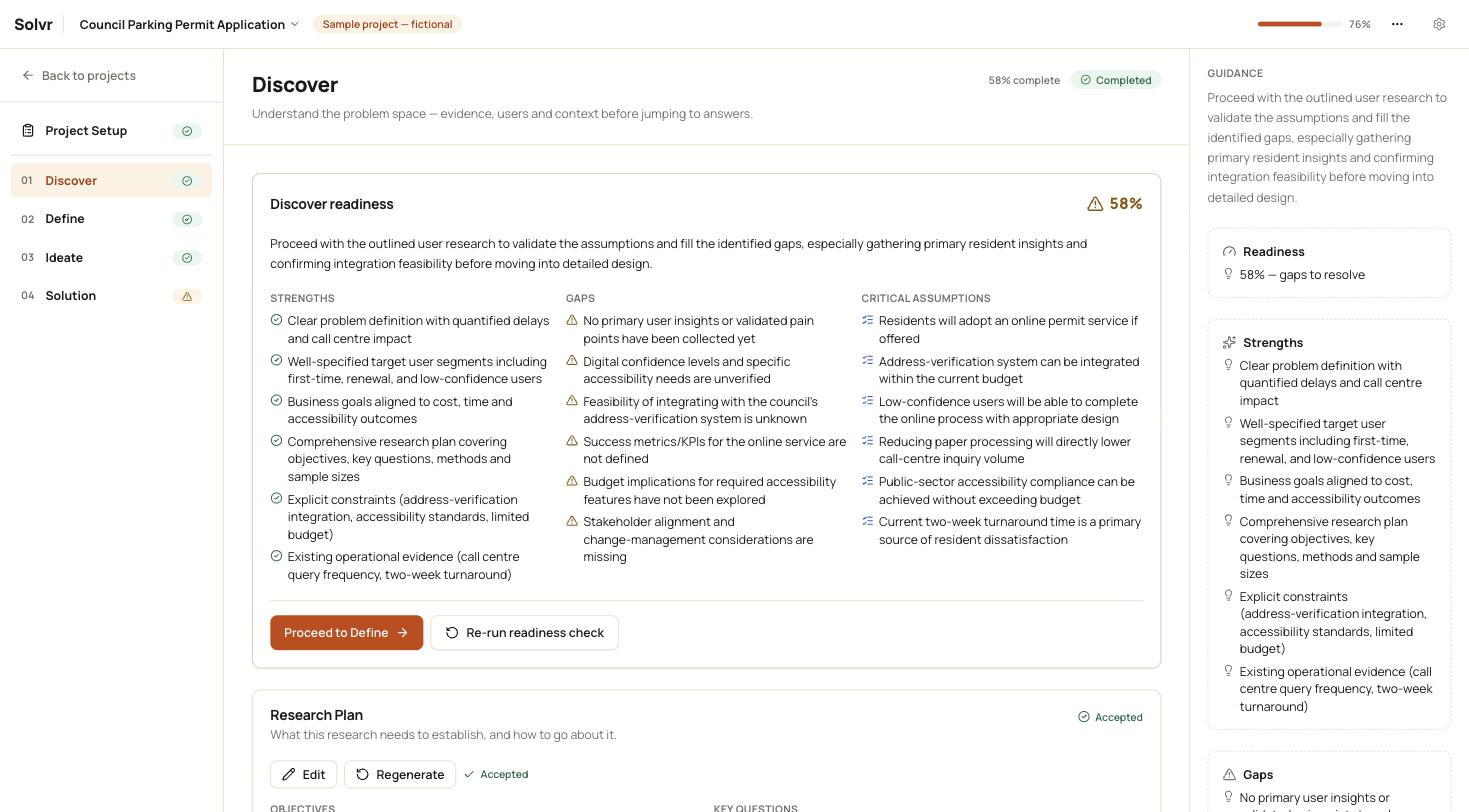
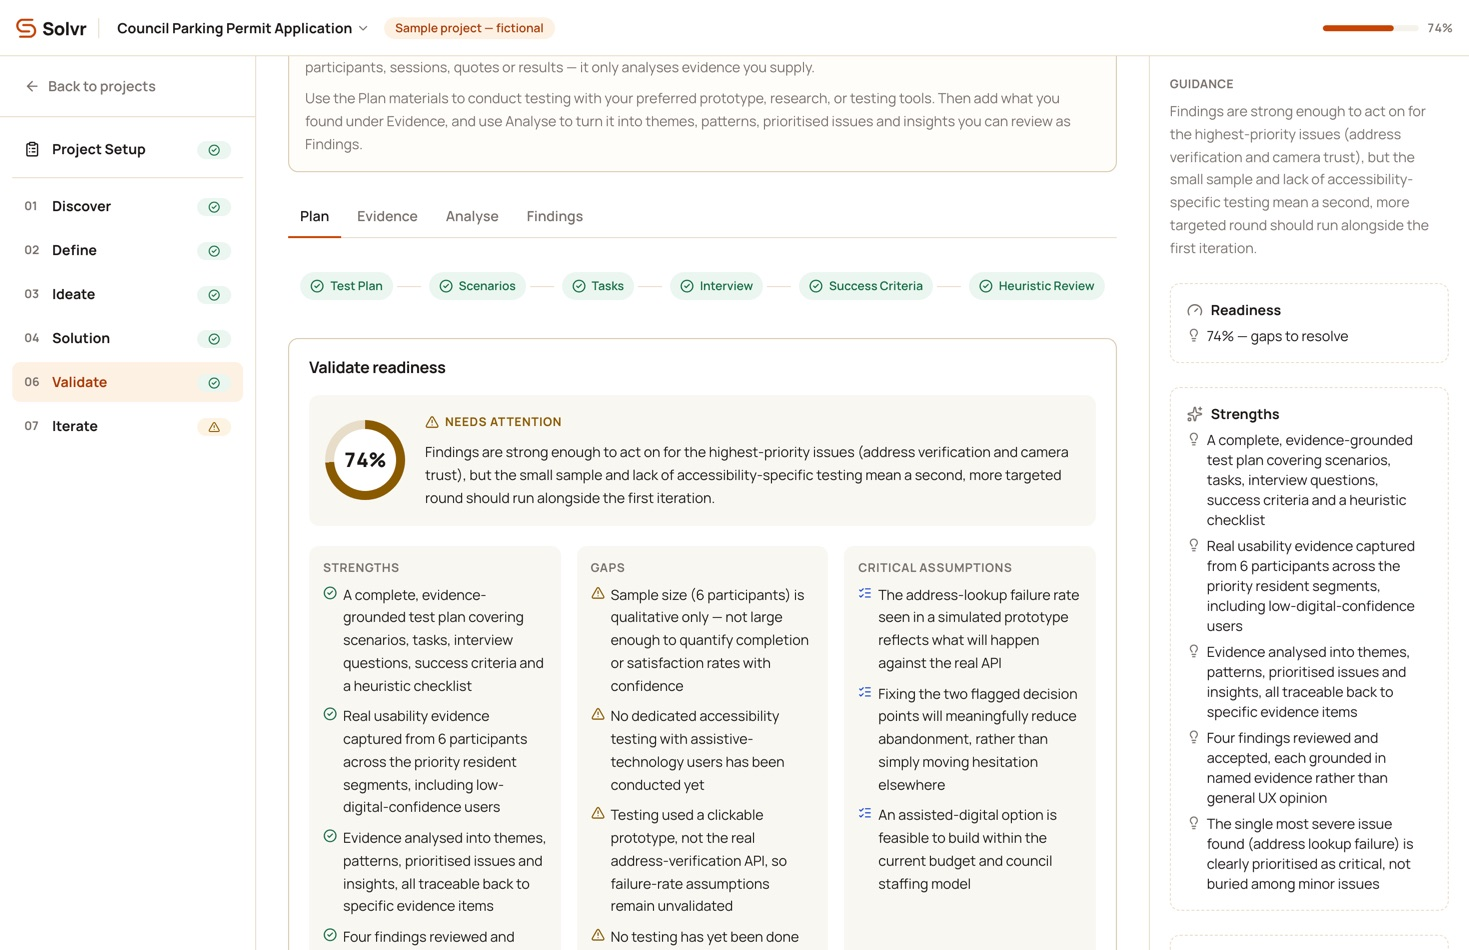
Update the marketing page for Validate/Iterate and fix the laptop mockup
The landing page still described a five-stage process (through Solution)
and used a screenshot from before the stage-page redesign. Update the
process section, hero copy, FAQ and About dialog to cover all seven
stages including Validate and Iterate, and refresh the hero screenshot
to the current UI.

Also rework the laptop mockup's base: it was a thin sliver barely wider
than the screen, which read as an iPad's bottom bezel rather than a
laptop. Flare the keyboard deck noticeably wider, add a hinge seam and a
front latch notch so it reads as an open laptop.

Claude-Session: https://claude.ai/code/session_01LFLF7B8LEyAFCLva1mCGFB

diff --git a/src/components/marketing/footer-legal.tsx b/src/components/marketing/footer-legal.tsx
@@ -59,9 +59,9 @@ export function AboutDialog() {
       <div className="flex flex-col gap-3">
         <H>What it is</H>
         <p>
-          Solvr is a free, AI-guided Product/UX design workspace. It walks a rough product problem through five
-          stages — Project Setup, Discover, Define, Ideate and Solution — asking the questions a design process
-          normally asks, and using AI to help draft, critique and score readiness at every step.
+          Solvr is a free, AI-guided Product/UX design workspace. It walks a rough product problem through seven
+          stages — Project Setup, Discover, Define, Ideate, Solution, Validate and Iterate — asking the questions a
+          design process normally asks, and using AI to help draft, critique and score readiness at every step.
         </p>
         <p>
           It replaces a blank document with guided deliverables — research plans, personas, journey maps, concepts,
@@ -111,7 +111,7 @@ export function AboutDialog() {
         <p>
           Solvr grew out of that same instinct: most product problems don&rsquo;t fail from a lack of effort, they
           fail from skipping the thinking a proper design process would have forced. It&rsquo;s a small, focused
-          tool for doing that thinking anyway — five guided stages, AI keeping you honest, and a readiness score
+          tool for doing that thinking anyway — seven guided stages, AI keeping you honest, and a readiness score
           that names what&rsquo;s still missing.
         </p>
         <p>

diff --git a/src/components/marketing/hero.tsx b/src/components/marketing/hero.tsx
@@ -22,9 +22,10 @@ export function Hero() {
           </h1>
 
           <p className="mx-auto mt-6 max-w-2xl text-balance text-lg leading-relaxed text-muted-foreground">
-            Solvr guides you from a product problem to a structured design solution — helping you
-            understand the problem, define the opportunity, explore solutions and turn the
-            strongest direction into a practical product specification.
+            Solvr guides you from a product problem to a validated design solution — helping you
+            understand the problem, define the opportunity, explore solutions, turn the
+            strongest direction into a practical specification, then test it and iterate on what
+            you learn.
           </p>
 
           <div className="mt-8 flex flex-col items-center justify-center gap-3 sm:flex-row">
@@ -42,9 +43,9 @@ export function Hero() {
 
         <LaptopMockup
           src="/app-screenshot.jpg"
-          alt="The Solvr workspace showing a Discover-stage readiness check, with strengths, gaps and critical assumptions surfaced for a project."
+          alt="The Solvr workspace showing the Validate stage of a project, with a readiness check surfacing strengths, gaps and critical assumptions alongside the Discover through Iterate stage navigation."
           width={1469}
-          height={812}
+          height={950}
         />
       </Container>
     </section>

diff --git a/src/components/marketing/process-section.tsx b/src/components/marketing/process-section.tsx
@@ -1,4 +1,4 @@
-import { FileSearch, Lightbulb, ListChecks, Target, Wrench } from 'lucide-react'
+import { FileSearch, FlaskConical, Lightbulb, ListChecks, RefreshCw, Target, Wrench } from 'lucide-react'
 import { Container } from '@/components/marketing/container'
 
 const STEPS = [
@@ -32,6 +32,18 @@ const STEPS = [
     title: 'Solution',
     description: 'Develop the strongest concept into a practical, structured product and UX specification.',
   },
+  {
+    number: '06',
+    icon: FlaskConical,
+    title: 'Validate',
+    description: 'Plan how to test the solution, bring back what you learn from real testing, and turn it into evidence-backed findings.',
+  },
+  {
+    number: '07',
+    icon: RefreshCw,
+    title: 'Iterate',
+    description: 'Turn accepted findings into an impact analysis and concrete proposed updates, reviewed side by side with what exists today.',
+  },
 ]
 
 export function ProcessSection() {
@@ -47,7 +59,7 @@ export function ProcessSection() {
           </h2>
         </div>
 
-        <div className="mt-14 grid gap-4 sm:grid-cols-2 lg:grid-cols-5">
+        <div className="mt-14 grid gap-4 sm:grid-cols-2 lg:grid-cols-4">
           {STEPS.map((step) => (
             <div key={step.number} className="relative rounded-lg border border-border bg-card p-5">
               <div className="mb-4 flex items-center justify-between">

diff --git a/src/components/marketing/laptop-mockup.tsx b/src/components/marketing/laptop-mockup.tsx
@@ -25,15 +25,19 @@ export function LaptopMockup({
         </div>
       </div>
 
-      <div className="relative mx-[-10px] sm:mx-[-14px]">
-        <div
+      {/* Hinge seam, then a keyboard deck that flares out well past the screen's
+          width — the width step is what reads as "laptop base" rather than a
+          tablet's bottom bezel, so it needs to be a lot more than a sliver. */}
+      <div aria-hidden className="h-[3px] bg-zinc-800 sm:h-1" />
+      <div className="relative mx-[-28px] sm:mx-[-42px]">
+        <div className="h-4 rounded-b-xl bg-gradient-to-b from-zinc-300 via-zinc-100 to-zinc-400 shadow-[0_8px_12px_-6px_rgba(0,0,0,0.3)] sm:h-6" />
+        <span
           aria-hidden
-          className="absolute inset-x-2.5 top-0 h-px bg-black/20 sm:inset-x-3.5"
+          className="absolute bottom-0 left-1/2 h-1.5 w-14 -translate-x-1/2 translate-y-1/2 rounded-full bg-zinc-400/80 ring-1 ring-black/10 sm:h-2 sm:w-20"
         />
-        <div className="h-[10px] rounded-b-2xl bg-gradient-to-b from-zinc-300 via-zinc-100 to-zinc-300 sm:h-[14px]" />
       </div>
 
-      <div aria-hidden className="mx-auto mt-3 h-3 w-[80%] rounded-[50%] bg-black/10 blur-md sm:h-4" />
+      <div aria-hidden className="mx-auto mt-4 h-3 w-[70%] rounded-[50%] bg-black/10 blur-md sm:h-5" />
     </div>
   )
 }

diff --git a/src/components/marketing/faq-section.tsx b/src/components/marketing/faq-section.tsx
@@ -7,7 +7,7 @@ const FAQS = [
   {
     question: 'What is Solvr?',
     answer:
-      'Solvr is a guided workspace that takes a product problem through a structured Product/UX design process — from Project Setup through Discover, Define, Ideate and Solution.',
+      'Solvr is a guided workspace that takes a product problem through a structured Product/UX design process — from Project Setup through Discover, Define, Ideate, Solution, Validate and Iterate.',
   },
   {
     question: 'Who is Solvr for?',
@@ -22,7 +22,7 @@ const FAQS = [
   {
     question: 'What design process does Solvr use?',
     answer:
-      'A five-stage process: Project Setup, Discover, Define, Ideate and Solution — moving from understanding the problem to a practical, structured solution.',
+      'A seven-stage process: Project Setup, Discover, Define, Ideate, Solution, Validate and Iterate — moving from understanding the problem to a practical, structured solution, then testing it and improving it based on what you learn.',
   },
   {
     question: 'Is Solvr free?',
